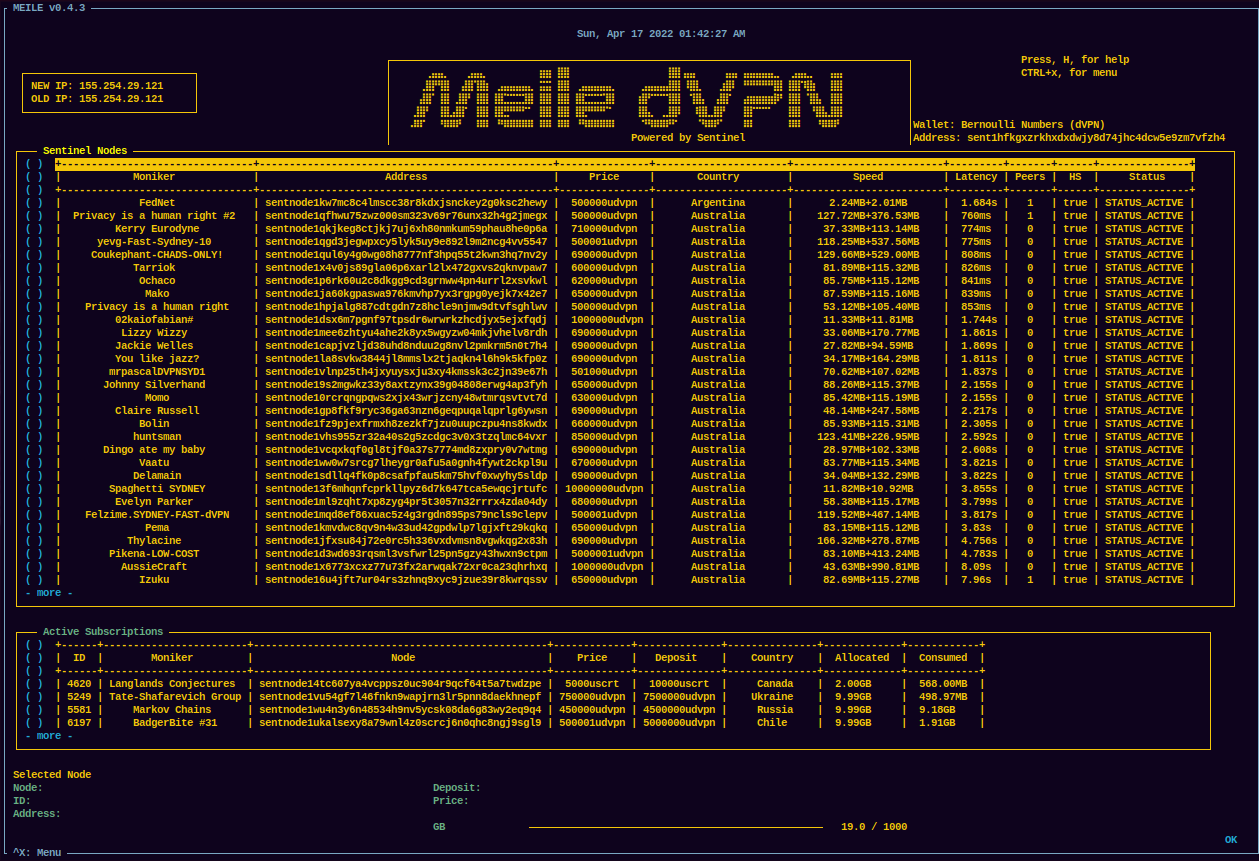
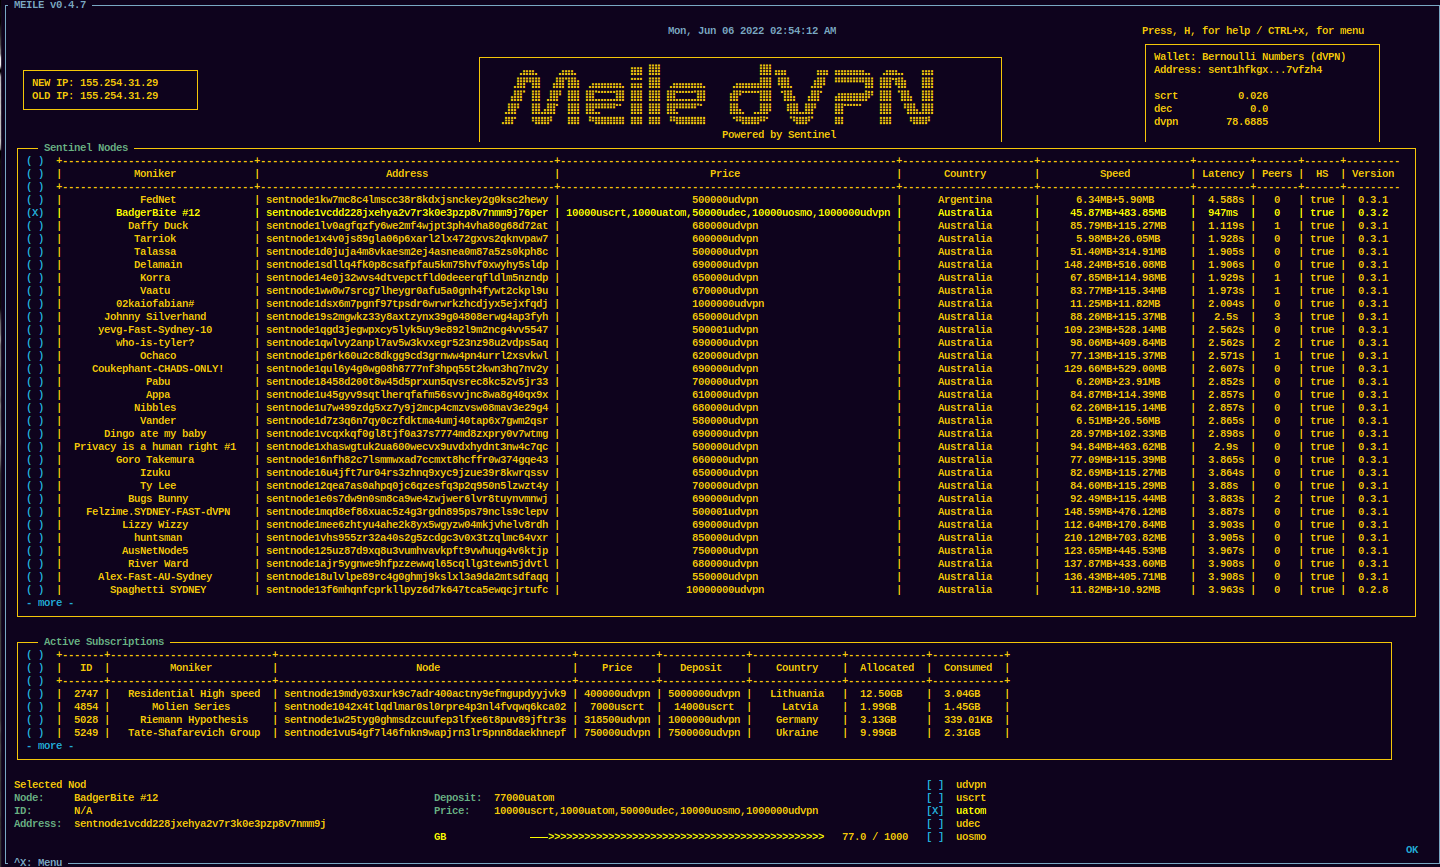
Multiple IBC COins, Expanded Node Info, Coin Select. v0.5.0

diff --git a/src/meile/meile.py b/src/meile/meile.py
@@ -13,6 +13,8 @@ from time import time
 from cli.sentinel import get_nodes, get_subscriptions,connect, disconnect, get_balance
 from cli.sentinel import subscribe as SentinelSubscribe
 from datetime import datetime
+from prettytable import PrettyTable
+from urllib3.exceptions import InsecureRequestWarning
 
 from curses import KEY_F2, KEY_F3, KEY_F5, KEY_F6, KEY_F7, COLOR_CYAN
 
@@ -21,11 +23,14 @@ BASEDIR = path.join(path.expanduser('~'), '.meile')
 CONFFILE = path.join(BASEDIR, 'config.ini')
 CONFIG = configparser.ConfigParser()
 LOGOFILE = os.path.join(BASEDIR, 'logo.uni')
-MEILEVERSION = "MEILE v0.4.6"
+MEILEVERSION = "MEILE v0.5.0"
 ICANHAZURL = "https://icanhazip.com"
+NODEAPIURL = 'https://api.sentinel.mathnodes.com/nodes/'
+
 KEY_C = 67
 KEY_D = 68
 KEY_H = 72
+KEY_I = 73
 KEY_S = 83
 
 def read_configuration(confpath):
@@ -53,6 +58,12 @@ def read_configuration(confpath):
 class BoxTitle(npyscreen.BoxTitle):
     _contained_widget = npyscreen.SelectOne
 
+class IBCCoinCheckBox(npyscreen.SelectOne):
+    _contained_widgets = npyscreen.CheckBox
+    _contained_widget_height = 1
+    
+    def display_value(self, vl):
+        return vl
 
 class MeileApplication(npyscreen.NPSAppManaged):
     def onStart(self):
@@ -79,6 +90,7 @@ class MainApp(npyscreen.FormWithMenus):
     SubsData = []
     NodeData = []
     result   = []
+    ibc_coins = ["udvpn","uscrt","uatom","udec","uosmo"]
     ip = ""
     old_ip = ""
     CONNECTED = False
@@ -90,7 +102,7 @@ class MainApp(npyscreen.FormWithMenus):
         ADDRESS = CONFIG['wallet'].get('address', '')
         WALLET  = CONFIG['wallet'].get('keyname', '')
         
-        self.keypress_timeout = 30
+        self.keypress_timeout = 5
 
         
         self.y,self.x = self.curses_pad.getmaxyx()
@@ -113,8 +125,8 @@ class MainApp(npyscreen.FormWithMenus):
         columns = shutil.get_terminal_size().columns
         rows = int(int(shutil.get_terminal_size().lines) / 2)
         newline = "\n"
-        if not rows*2 >= 66 or not columns >= 210:
-            exit("Terminal not big enough. Please make sure your terminal is at least 66x210. Use 'stty size' to determine and adjust appropriately.")
+        if not rows*2 >= 67 or not columns >= 221:
+            exit("Terminal not big enough. Please make sure your terminal is at least 66x240 (rows x col). Use 'stty size' to determine and adjust appropriately.")
         print(rows*newline,"Loading.... (%s x %s)".center(columns) % (rows*2, columns), end=' ')
         linlen=len(data[2])
         self.logo = self.add(npyscreen.BoxTitle, values=data, rely=4, relx= int((self.x - linlen) / 2),
@@ -122,15 +134,7 @@ class MainApp(npyscreen.FormWithMenus):
         self.logo.editable = False 
         
         
-        
-        CoinData = []
-        CoinData.append("Wallet: " + WALLET)
-        CoinData.append("Address: " + ADDRESS[0:10] + "..." + ADDRESS[::-1][0:6][::-1])
-        CoinData.append(" ")
-        
-        
-        for key,val in get_balance(ADDRESS).items():
-            CoinData.append("{0:<4}{1:>15}".format(key,val))
+        CoinData = self.get_wallet_balances(WALLET, ADDRESS)
             
         
 
@@ -166,12 +170,14 @@ class MainApp(npyscreen.FormWithMenus):
                                         'color': "CAUTION", 
                                         'widgets_inherit_color': False,}
                                     )
-        self.add(npyscreen.FixedText, rely = self.y -7, value="Selected Node")
-        self.node = self.add(npyscreen.TitleText, name = "Node: ", value=None, use_two_lines = False, begin_entry_at = 10, rely = self.y - 6, editable = None)
-        self.id = self.add(npyscreen.TitleText, name = "ID: ", value=None, use_two_lines = False, begin_entry_at = 10, rely = self.y - 5, editable = None)
-        self.address = self.add(npyscreen.TitleText, name = "Address: ", value=None, use_two_lines = False, begin_entry_at = 10, rely = self.y - 4, editable = None)
-        self.deposit = self.add(npyscreen.TitleText, name = "Deposit: ", value=None, use_two_lines = False, begin_entry_at = 10, rely = self.y - 6, relx = 72, editable = None )
-        self.price = self.add(npyscreen.TitleText, name = "Price: ", value=None, use_two_lines = False, begin_entry_at = 10, rely = self.y - 5, relx = 72, editable = None )
+        self.add(npyscreen.FixedText, rely = self.y -7, value="Selected Node", max_width = 13)
+        self.ibc_check_box = self.add(IBCCoinCheckBox, max_height=5, name="Testing", values=self.ibc_coins, slow_scroll=False, relx = 72 + 82, rely = self.y -7)
+
+        self.node = self.add(npyscreen.TitleText, name = "Node: ", value=None, use_two_lines = False, begin_entry_at = 10, rely = self.y - 6, editable = None, max_width = 60)
+        self.id = self.add(npyscreen.TitleText, name = "ID: ", value=None, use_two_lines = False, begin_entry_at = 10, rely = self.y - 5, editable = None, max_width = 30)
+        self.address = self.add(npyscreen.TitleText, name = "Address: ", value=None, use_two_lines = False, begin_entry_at = 10, rely = self.y - 4, editable = None, max_width = 54)
+        self.deposit = self.add(npyscreen.TitleText, name = "Deposit: ", max_width = 57, value=None, use_two_lines = False, begin_entry_at = 10, rely = self.y - 6, relx = 72, editable = None )
+        self.price = self.add(npyscreen.TitleText, name = "Price: ", value=None, max_width = 70, use_two_lines = False, begin_entry_at = 10, rely = self.y - 5, relx = 72, editable = None )
         self.dataGB = self.add(npyscreen.TitleSlider, max_width = 80, label=True, name="GB", value=19, out_of = 1000, step = 2, block_color = COLOR_CYAN, rely = self.y - 3, relx = 72)
         #self.add(npyscreen.FixedText, rely = self.y - 3, value="Use the menu to Connect/Subscribe (CTRL+X)", editable = None)
         self.add_handlers({KEY_F2: self.display_boxy})
@@ -182,14 +188,17 @@ class MainApp(npyscreen.FormWithMenus):
         self.add_handlers({KEY_C: self.connect_subscription})
         self.add_handlers({KEY_D: self.part_subscription})
         self.add_handlers({KEY_S: self.subscribe})
-        
+        self.add_handlers({KEY_I: self.expand_node_info})
 
     def while_waiting(self):
         if self.price.value:
-            mu_amt = re.findall(r'[0-9]+', self.price.value)[0]
-            mu_coin = re.findall(r'\D+', self.price.value)[0]
-            self.deposit.value = str(int(int(self.dataGB.value) * int(mu_amt))) + mu_coin 
-            self.deposit.display()
+            #mu_coin = re.findall(r'\D+', self.price.value)[0]
+            if self.ibc_check_box.value:
+                mu_coin = self.ibc_coins[self.ibc_check_box.value[0]]
+                mu_amt_coin = re.findall(r'[0-9]+' + mu_coin, self.price.value)[0]
+                mu_amt = re.findall(r'[0-9]+', mu_amt_coin)[0]
+                self.deposit.value = str(int(int(self.dataGB.value) * int(mu_amt))) + mu_coin 
+                self.deposit.display()
     
     def helpme(self, *args, **keywords):
         
@@ -212,6 +221,7 @@ class MainApp(npyscreen.FormWithMenus):
                 S            - Subscribe to loaded node data (from F3)
                 D            - Disconnect from connectd node
                 C            - Connect to loaded subscription (From F2)
+                I            - Select Node and Get Additional Information
                 ''' % MEILEVERSION
         npyscreen.notify_confirm(message, title="Meile HELP v0.2.0 (MathNodes)", form_color = "STANDOUT" , wide=True)
                 
@@ -290,6 +300,8 @@ Keyname: %s
     def subscribe(self, *args, **keywords):
         global CONFIG
         KEYNAME = CONFIG['wallet'].get('keyname', '')
+        ADDRESS = CONFIG['wallet'].get('address', '')
+
         
         try:
             message='''
@@ -306,6 +318,8 @@ Keyname: %s
                     if returncode == 0:
                         npyscreen.notify_confirm("Successfully Subscribe. Please reload your subscriptions. Remember it may take 1-5 minutes to show up.",
                                                  title="Meile Subscription")
+                        self.coinBox.values = self.get_wallet_balances(KEYNAME, ADDRESS)
+                        self.coinBox.display()
                     else:
                         npyscreen.notify_confirm("ERROR: Something went wrong with sentinelcli", title="ERROR")
                 else:
@@ -315,7 +329,18 @@ Keyname: %s
         except:
             npyscreen.notify_confirm("ERROR: Something went wrong.RETCODE=%s" % returncode, title="ERROR")
                 
-                
+    def get_wallet_balances(self, WALLET, ADDRESS):
+        
+        CoinData = []
+        CoinData.append("Wallet: " + WALLET)
+        CoinData.append("Address: " + ADDRESS[0:10] + "..." + ADDRESS[::-1][0:6][::-1])
+        CoinData.append(" ")
+        
+        
+        for key,val in get_balance(ADDRESS).items():
+            CoinData.append("{0:<4}{1:>15}".format(key,val))
+        
+        return CoinData            
             
     def display_boxy(self, *args, **keywords):
         try: 
@@ -339,6 +364,8 @@ Keyname: %s
             selected_node_data = self.NodeData[self.dVPNs.value[0]].split('|')[1:4]
             self.node.value    = selected_node_data[0].lstrip().rstrip()
             self.address.value = selected_node_data[1].lstrip().rstrip()
+            
+            # This needs to change along with CheckBox 
             self.price.value   = selected_node_data[2].lstrip().rstrip()
             self.id.value      = "N/A"
             #self.deposit.value =  "Enter Amt..."
@@ -348,9 +375,61 @@ Keyname: %s
             self.deposit.display()
             self.price.display()
         except:
-            pass 
+            pass
+        
+    def expand_node_info(self, *args, **keywords): 
+ 
+        selected_node_data = self.NodeData[self.dVPNs.value[0]].split('|')[1:4]
+        NADDRESS = selected_node_data[1].lstrip().rstrip()
 
-             
+        NodeTable = self.get_node_infos(NADDRESS)
+        npyscreen.notify_confirm(NodeTable, title="Node Info", form_color = "STANDOUT" , wide=True)
+ 
+
+                    
+
+
+    def get_node_infos(self, naddress):
+        APIURL   = "https://api.sentinel.mathnodes.com"
+
+        endpoint = "/nodes/" + naddress
+        
+        NodeInfoDict = {}
+        NodeTable = PrettyTable()    
+    
+        r = requests.get(APIURL + endpoint)
+        
+        remote_url = r.json()['result']['node']['remote_url']
+        print(remote_url)
+        requests.packages.urllib3.disable_warnings(category=InsecureRequestWarning)
+    
+        r = requests.get(remote_url + "/status", verify=False)
+        
+        NodeInfoJSON = r.json()
+        
+        NodeInfoDict['Moniker']         = NodeInfoJSON['result']['moniker']
+        NodeInfoDict['city']            = NodeInfoJSON['result']['location']['city']
+        NodeInfoDict['country']         = NodeInfoJSON['result']['location']['country']
+        NodeInfoDict['bandwidth']       = str(int(int(NodeInfoJSON['result']['bandwidth']['download']) / (1024*1024))) + "MB/s down, " + str(int(int(NodeInfoJSON['result']['bandwidth']['upload']) / (1024*1024))) + "MB/s up"
+        NodeInfoDict['connected_peers'] = NodeInfoJSON['result']['peers']
+        NodeInfoDict['max_peers']       = NodeInfoJSON['result']['qos']['max_peers']
+        NodeInfoDict['price']           = NodeInfoJSON['result']['price']
+        NodeInfoDict['version']         = NodeInfoJSON['result']['version']
+        
+        NodeTable.field_names = ['Moniker', 'City', 'Country', 'Bandwith', 'Connected Peers', 'Maximum Peers', 'Price', 'Version' ]
+        NodeTable.add_row([NodeInfoDict['Moniker'],
+                           NodeInfoDict['city'],
+                           NodeInfoDict['country'],
+                           NodeInfoDict['bandwidth'],
+                           NodeInfoDict['connected_peers'],
+                           NodeInfoDict['max_peers'],
+                           NodeInfoDict['price'],
+                           NodeInfoDict['version']
+                           ])
+        
+        return '___\nExpanded Node Data\n_____________________\n' + NodeTable.get_string()
+        
+            
         
 def main():
     global CONFIG

diff --git a/src/cli/sentinel.py b/src/cli/sentinel.py
@@ -5,11 +5,15 @@ from os import path
 import re
 import requests
 import json
-
+from time import sleep
 # IBC Tokens
[7 lines of base64/hex data omitted]
+
+IBCCOINS = [{'uscrt' : IBCSCRT}, {'uatom' : IBCATOM}, {'udec' : IBCDEC}, {'uosmo' : IBCOSMO}, {'uknwn' :IBCUNKWN}]
 
 SATOSHI = 1000000
 
@@ -60,12 +64,7 @@ def get_nodes():
     
     for d in AllNodesInfoSorted:
         for k, v in d.items():
-            if IBCSCRT in v:
-                v = v.replace(IBCSCRT,'uscrt')
-            elif IBCUNKWN in v:
-                v = v.replace(IBCUNKWN,'unkwn')
-            elif IBCDEC in v:
-                v = v.replace(IBCDEC, 'udec')
+            v=return_denom(v)
             result[k].append(v.lstrip().rstrip())
             
     
@@ -82,9 +81,7 @@ def get_nodes():
     NodeTable.field_names = [NodesInfoKeys[0],NodesInfoKeys[1], NodesInfoKeys[3],NodesInfoKeys[4],
                                                                                 NodesInfoKeys[5],
                                                                                 NodesInfoKeys[6],
-                                                                                NodesInfoKeys[7],
-                                                                                "HS",
-                                                                                NodesInfoKeys[9]]
+                                                                                NodesInfoKeys[7]]
    
     #NodeData.append(173*dash)
     for e in range(pos):
@@ -92,9 +89,7 @@ def get_nodes():
                                                                                 result[NodesInfoKeys[4]][e],
                                                                                 result[NodesInfoKeys[5]][e],
                                                                                 result[NodesInfoKeys[6]][e],
-                                                                                result[NodesInfoKeys[7]][e],
-                                                                                result[NodesInfoKeys[8]][e],
-                                                                                result[NodesInfoKeys[9]][e]])
+                                                                                result[NodesInfoKeys[7]][e]])
                            
  
     NodeTableString = NodeTable.get_string()
@@ -102,6 +97,15 @@ def get_nodes():
     NodeData = NodeTableString.split('\n')
     
     return NodeData,result
+
+def return_denom(tokens):
+    for ibc_coin in IBCCOINS:
+        for denom,ibc in ibc_coin.items():
+            if ibc in tokens:
+                tokens = tokens.replace(ibc, denom)
+    
+
+    return tokens
 
 def get_subscriptions(result, ADDRESS):
     SubsNodesInfo = []
@@ -218,6 +222,17 @@ def get_balance(address):
             CoinDict['dec'] = round(float(float(coin['amount']) / SATOSHI),4)
             
     return CoinDict
+
+def get_node_infos(naddress):
+    endpoint = "/nodes/" + naddress
+    
+    NodeInfoDict = {}
+    
+    r = requests.get(APIURL + endpoint)
+    
+    remote_url = r.json()['result']['node']['remote_url']
+    
+    
 
 def disconnect():
     ifCMD = ["ifconfig", "-a"]

diff --git a/setup.py b/setup.py
@@ -8,7 +8,7 @@ with open('README.md', encoding="utf-8") as f:
 
 setup(
     name='meile',
-    version='0.4.6',
+    version='0.5.0',
     description='Meile dVPN powered by the Sentinel Network',
     long_description=readme,
     long_description_content_type="text/markdown",

diff --git a/CHANGELOG.md b/CHANGELOG.md
@@ -1,5 +1,16 @@
 # CHANGELOG
 
+## Version 0.5.0 (06/06/2022)
+* NEW: Support for dVPN node IBC multi-coin listings
+* NEW: Single checkbox for subscribing with IBC coins on Sentinel
+* NEW: Parsing of multi-coin IBC for accurate transaction in specific coin
+* NEW: Selecting a node in the table and pressing 'I' will display additional information about the selected node. This uses an API call to get status of specific node
+* CHANGE: reduced wait_time for updated deposit amount from 35 to 5, instant display
+* FIX: Specified max_width in node subscription listings for UI clarity
+* ADD: New function for parsing IBC tokens in node listings. 
+* REMOVED: Version and Handshake details from main node listing. They can now be found under the Info ('I') dialog. See help in Meile for more info.
+* CHANGED: Minimum screen display is now 221x67
+
 ## Version 0.4.6 (19/05/2022)
 * FIX: Wallet Box max_height
 
